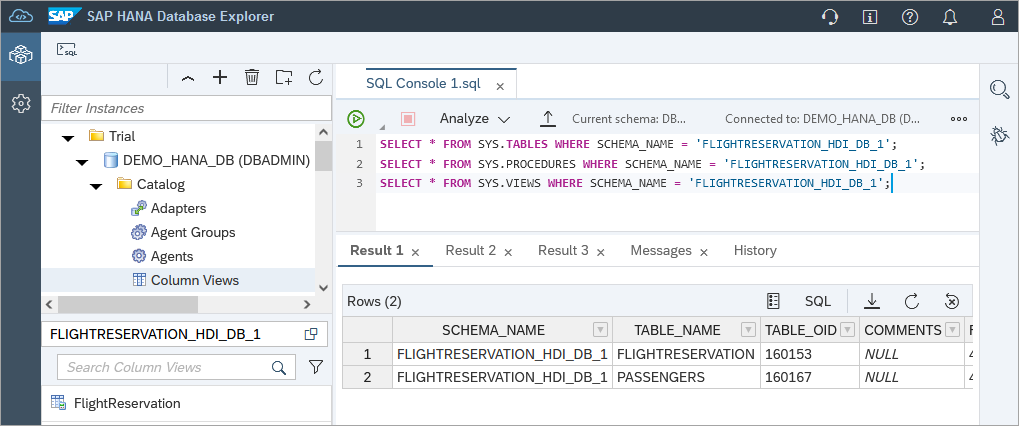
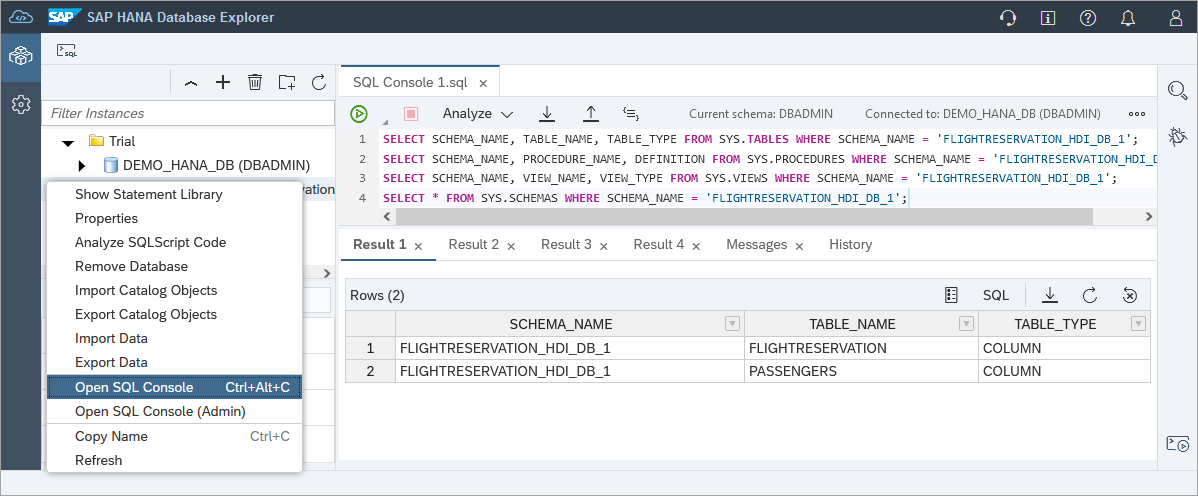
bas ex4 updates

diff --git a/exercises/business_app_studio/ex4/README.md b/exercises/business_app_studio/ex4/README.md
@@ -18,7 +18,7 @@ This exercise will further examine the deployed HDI container.
 - Can be generated from higher-level language like CAP CDS
 - Eases deployment in multi-tenant environments
 
-Alternatively, database objects can also be created directly in the database using SQL as shown in the tutorial [Create Database Objects with SAP HANA Database Explorer](https://developers.sap.com/tutorials/hana-dbx-create-schema.html).
+Alternatively, database objects can also be created directly in the database using SQL.  An example of this is shown in the tutorial [Create Database Objects with SAP HANA Database Explorer](https://developers.sap.com/tutorials/hana-dbx-create-schema.html).
 
 ## Exercise 4.2 HDI Schemas
 
@@ -26,12 +26,15 @@ Alternatively, database objects can also be created directly in the database usi
 
     ![](images/HDI-Schemas.png)
 
-    - "FLIGHTRESERVATION_HDI_DB_1 contains the runtime objects (tables, calculation view, stored procedure)
+    - "FLIGHTRESERVATION_HDI_DB_1 contains the runtime objects previously created such as the two tables, calculation view, and stored procedure.
+
+        Right-click on **DEMO_HANA_DB** and choose **Open SQL Console**.  Execute the below SQL.
 
         ```SQL
-        SELECT * FROM SYS.TABLES WHERE SCHEMA_NAME = 'FLIGHTRESERVATION_HDI_DB_1';
-        SELECT * FROM SYS.PROCEDURES WHERE SCHEMA_NAME = 'FLIGHTRESERVATION_HDI_DB_1';
-        SELECT * FROM SYS.VIEWS WHERE SCHEMA_NAME = 'FLIGHTRESERVATION_HDI_DB_1';
+        SELECT SCHEMA_NAME, TABLE_NAME, TABLE_TYPE FROM SYS.TABLES WHERE SCHEMA_NAME = 'FLIGHTRESERVATION_HDI_DB_1';
+        SELECT SCHEMA_NAME, PROCEDURE_NAME, DEFINITION FROM SYS.PROCEDURES WHERE SCHEMA_NAME = 'FLIGHTRESERVATION_HDI_DB_1';
+        SELECT SCHEMA_NAME, VIEW_NAME, VIEW_TYPE FROM SYS.VIEWS WHERE SCHEMA_NAME = 'FLIGHTRESERVATION_HDI_DB_1';
+        SELECT * FROM SYS.SCHEMAS WHERE SCHEMA_NAME = 'FLIGHTRESERVATION_HDI_DB_1';
         ```
 
         ![](images/objects.png)
@@ -39,62 +42,74 @@ Alternatively, database objects can also be created directly in the database usi
     - FLIGHTRESERVATION_HDI_DB_1#DI is the design time schema and contains procedures used by the deployment infrastructure 
     - FLIGHTRESERVATION_HDI_DB_1#OO is a technical schema for the object owner
     - FLIGHTRESERVATION_HDI_DB_1_GUID_DT is a schema for the design-time user
-    - FLIGHTRESERVATION_HDI_DB_1_GUID_RT is a schema for the runtime or application user
+    - FLIGHTRESERVATION_HDI_DB_1_GUID_RT is a schema for the runtime or application user.  A RT and DT user and schema is created when a new service key is created.  
+    - _SYS_DI contains monitoring views and procedures to show information about all HDI containers and to configure them
 
-    A RT and DT user and schema is created when a new service key is created.  
+        ```SQL
+        SELECT * FROM SYS.TABLES WHERE SCHEMA_NAME = '_SYS_DI';
+        SELECT * FROM SYS.PROCEDURES WHERE SCHEMA_NAME = '_SYS_DI';
+        SELECT * FROM SYS.VIEWS WHERE SCHEMA_NAME = '_SYS_DI';
+        SELECT * FROM SYS.SCHEMAS WHERE SCHEMA_NAME = '_SYS_DI';
+        ```
 
-## Exercise 4.3 Opening a SQL Console as Admin
+        ![](images/sysdi.png)
+
+    - _SYS_DI#BROKER_CG contains procedures for viewing and managing container groups.
+
+        ```SQL
+        SELECT * FROM SYS.TABLES WHERE SCHEMA_NAME = '_SYS_DI#BROKER_CG';
+        SELECT * FROM SYS.PROCEDURES WHERE SCHEMA_NAME = '_SYS_DI#BROKER_CG';
+        SELECT * FROM SYS.VIEWS WHERE SCHEMA_NAME = '_SYS_DI#BROKER_CG';
+        SELECT * FROM SYS.SCHEMAS WHERE SCHEMA_NAME = '_SYS_DI#BROKER_CG';
+        ```
+
+        ![](images/cg.png)
+
+## Exercise 4.3 Opening a SQL Console with Different Users
 
 1.  In the SAP HANA database explorer, open a SQL Console connected to the HDI container.  Execute the following SQL.
 
     ```SQL
     SELECT CURRENT_USER, CURRENT_SCHEMA FROM DUMMY;
-    SELECT * FROM USERS WHERE USER_NAME LIKE '%FLIGHT%';
-    SELECT SCHEMA_NAME, HAS_PRIVILEGES FROM SCHEMAS WHERE SCHEMA_NAME LIKE '%FLIGHT%';
-    SELECT * FROM FLIGHTRESERVATION_HDI_DB_1#DI.M_JOBS;  --Fails
-    SELECT * FROM FLIGHTRESERVATION_HDI_DB_1#DI.M_OBJECTS; --Fails
+    SELECT * FROM PASSENGERS;
+    SELECT USER_NAME, CREATE_TIME, LAST_SUCCESSFUL_CONNECT FROM USERS WHERE USER_NAME LIKE '%FLIGHT%';
+    SELECT SCHEMA_NAME, CREATE_TIME FROM SYS.SCHEMAS WHERE SCHEMA_NAME LIKE '%FLIGHT%';
+    --SELECT * FROM FLIGHTRESERVATION_HDI_DB_1#DI.M_JOBS;  --Fails
+    --SELECT * FROM FLIGHTRESERVATION_HDI_DB_1#DI.M_OBJECTS; --Fails
     ```
     
-    Notice that the user is the _RT or run time user as opposed to the _DT or design time user.
+    ![](images/rt-user.png)
 
-    If you want to access the DT view you have to use the "ADMIN" container access in Database Explorer.
+    Notice that the user is the _RT or runtime user as opposed to the _DT or design time user.
+
+    Details of the HDI container such as when was the last successful deployment can be seen when connecting as an Admin/DT user.  Right click on the HDI container and choose **Open SQL Console (ADMIN)**.
 
     ![](images/open-admin.png)
 
-    Now rerun the previous code.  Notice that the select from M_JOBS now succeeds.
+    Notice that the select from M_JOBS and M_OBJECTS now succeeds as the user is 
 
-    The DI schema also contains some views that contain information about the design time objects including their source and with m_jobs also information about the previous deployments.
+    ```SQL
+    SELECT CURRENT_USER, CURRENT_SCHEMA FROM DUMMY;
+    --SELECT * FROM PASSENGERS;  --Fails
+    SELECT USER_NAME, CREATE_TIME, LAST_SUCCESSFUL_CONNECT FROM USERS WHERE USER_NAME LIKE '%FLIGHT%';
+    SELECT SCHEMA_NAME, CREATE_TIME FROM SYS.SCHEMAS WHERE SCHEMA_NAME LIKE '%FLIGHT%';
+    SELECT REQUEST_ID, STATUS, JOB_START_TIMESTAMP_UTC FROM FLIGHTRESERVATION_HDI_DB_1#DI.M_JOBS;
+    SELECT CONTAINER_NAME, OBJECT_NAME, OBJECT_TYPE FROM FLIGHTRESERVATION_HDI_DB_1#DI.M_OBJECTS;
+    ```
+
+    ![](images/dt-user.png)
+
+    For additional details on the monitoring views used above consult [_SYS_DI Monitoring Views](https://help.sap.com/docs/HANA_CLOUD_DATABASE/c2cc2e43458d4abda6788049c58143dc/78e1657f43f04741b9c2b161632e4fe5.html) in the Database Deployment Infrastructure (HDI) Reference.
 
     Here is a blog on this topic:
     https://blogs.sap.com/2022/06/13/can-i-see-the-hana-deployment-history/
 
 
-## Exercise 4.4 Examining the Contents of the HDI Container
-
-1.  In the SAP HANA database explorer, open the parent database of the HDI container.  Notice that you can see the schema and objects but do not have privileges to query them.
-
-    ![](images/view-tables.png)
-
-## Exercise 4.5 HDI Monitoring Views
-
-1. These can be viewed when connecting to the **DEMO_HANA_DB** database in the schema **_SYS_DI**.  The M_ indicates that these are monitoring views.  A few example queries follow that can be run.
-
-    ```SQL
-    SET SCHEMA _SYS_DI;
-    SELECT * FROM M_ALL_CONTAINERS;  --Shows the list of HDI containers in the database
-    SELECT * FROM M_ALL_JOBS;  --Shows deployment HDI jobs
-    ```
-
-    ![](images/monitoring-views.png)
-
-    For additional details consult [_SYS_DI Monitoring Views](https://help.sap.com/docs/HANA_CLOUD_DATABASE/c2cc2e43458d4abda6788049c58143dc/78e1657f43f04741b9c2b161632e4fe5.html) in the Database Deployment Infrastructure (HDI) Reference.
-
-
 ## Summary
 
-You have now have a better understanding of some of the HDI concepts.  Additionally, HDI has a [SQL interface](https://help.sap.com/docs/HANA_CLOUD_DATABASE/c2cc2e43458d4abda6788049c58143dc/035dbbe23ac14242b1f7d724dd102825.html) and a Node.js ([@sap/hdi](https://www.npmjs.com/package/@sap/hdi)) interface.
+You have now have a better understanding of some of the HDI concepts.  
 
 In the next set of exercises, we will focus on functionality within the SAP HANA database explorer.
 
-Continue to - [Exercise 2 - Description](../../database_explorer/ex2/README.md)
+Continue to - [Exercise 2 - Catalog Browser and Object Search](../../database_explorer/ex2/README.md)
 
